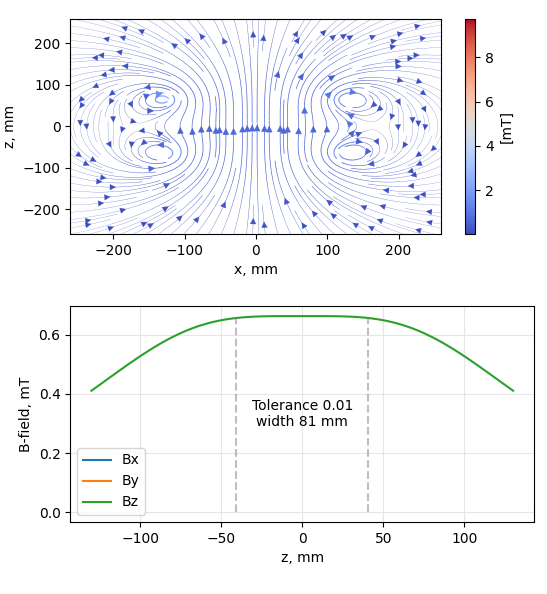
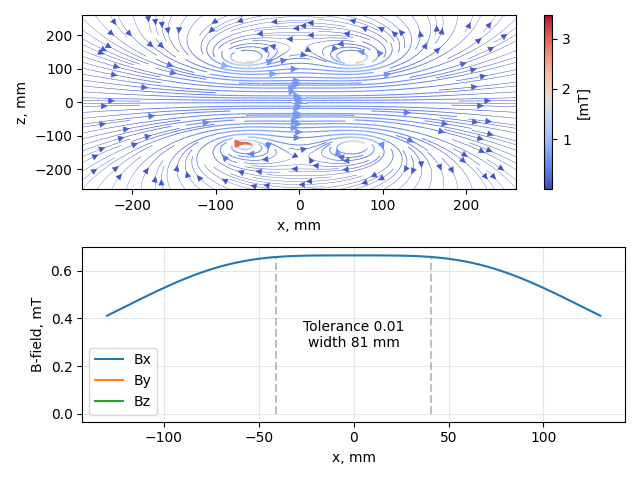
rotated in XY plane

diff --git a/helmholtz.py b/helmholtz.py
@@ -5,6 +5,7 @@ import magpylib as magpy
 import matplotlib.pyplot as plt
 import numpy as np
 from magpylib.current import Loop
+from scipy.spatial.transform import Rotation as R
 
 Mu0 = 4 * np.pi * 1e-7
 
@@ -30,9 +31,9 @@ class HelmholtzCoil(magpy.Collection):
         current : float
             The applied current in A.
         wires : int
-            No. of wires in a layer.
+            No. of wires per layer.
         layers : int
-            No. of stacked layers with ``wires``.
+            No. of stacked layers of wires.
             Even no. of layers end up winding on the same side of a coil,
             odd - opposite sides.
         fast : bool
@@ -53,10 +54,9 @@ class HelmholtzCoil(magpy.Collection):
             coil1 = self._coil_loop()
         else:
             coil1 = self._coil_spiral()
-        coil1.position = (0, 0, -self.radius / 2)
-        coil2 = coil1.copy(position=(0, 0, self.radius / 2))
+        coil1.position = (-self.radius / 2, 0, 0)
+        coil2 = coil1.copy(position=(self.radius / 2, 0, 0))
         self.add(coil1, coil2)
-        self.add_coils_connection_cables(coil1, coil2)
 
     @property
     def n_turns(self):
@@ -141,55 +141,37 @@ class HelmholtzCoil(magpy.Collection):
             f"\tHomogeneous region (tol={tol}): {b0_width:.0f} mm"
         return s
 
-    def add_coils_connection_cables(self, coil1, coil2):
-        # Has negligible effect
-        wire1, wire2, wire3 = coil1.sources[-1], coil2.sources[0], \
-                              coil2.sources[-1]
-        if isinstance(wire1, magpy.current.Loop):
-            v1_end = [wire1.diameter / 2, 0, 0] + wire1.position
-            v2_begin = [wire2.diameter / 2, 0, 0] + wire2.position
-            v2_end = [wire3.diameter / 2, 0, 0] + wire3.position
-        else:
-            v1_end = wire1.vertices[-1] + coil1.position
-            v2_begin = wire2.vertices[0] + coil2.position
-            v2_end = wire3.vertices[-1] + coil2.position
-        cable1 = magpy.current.Line(
-            current=self.current,
-            vertices=np.stack([v1_end, v2_begin])
-        )
-        cable2 = magpy.current.Line(
-            current=self.current,
-            vertices=np.stack([v2_end, v1_end])
-        )
-        self.add(cable1, cable2)
-
     def layer_radius(self, layer_id):
         x_layer = self.wire.d_outer * (layer_id - (self.n_layers - 1) / 2)
         return self.radius + x_layer
 
     def _coil_loop(self):
         coil1 = magpy.Collection(style_label='coil1')
+        rotation = R.from_euler('y', 90, degrees=True)
         for layer_id in range(self.n_layers):
             loop_diameter = 2 * self.layer_radius(layer_id)
             for wire_id in range(self.n_wires):
-                z_wire = self.wire.d_outer * (wire_id - (self.n_wires - 1) / 2)
+                x_wire = self.wire.d_outer * (wire_id - (self.n_wires - 1) / 2)
                 coil1.add(Loop(current=self.current, diameter=loop_diameter,
-                               position=(0, 0, z_wire)))
+                               orientation=rotation,
+                               position=(x_wire, 0, 0)))
         return coil1
 
     def _coil_spiral(self):
         coil1 = magpy.Collection(style_label='coil1')
         phase = np.linspace(0, self.n_wires * 2 * np.pi, num=1000)
         half_width = self.wire.d_outer * (self.n_wires - 1) / 2
-        z_ticks = np.linspace(-half_width, half_width, phase.size)
+        rotation = R.from_euler('y', 90, degrees=True)
+        x_ticks = np.linspace(-half_width, half_width, phase.size)
         for layer_id in range(self.n_layers):
             loop_radius = self.layer_radius(layer_id)
             vertices = np.c_[loop_radius * np.cos(phase),
                              loop_radius * np.sin(phase),
-                             z_ticks]
+                             x_ticks]
             coil_layer = magpy.current.Line(
                 current=self.current,
-                vertices=vertices
+                vertices=vertices,
+                orientation=rotation,
             )
             coil1.add(coil_layer)
         return coil1
@@ -201,17 +183,17 @@ class HelmholtzCoil(magpy.Collection):
         b0_mT = b0 * 1e6
         return b0_mT
 
-    def create_grid(self, n=100, dim=2):
-        grid_z = np.linspace(-self.radius, self.radius, num=n)
-        grid = np.zeros((grid_z.shape[0], 3))
-        grid[:, dim] = grid_z
+    def create_grid(self, n=100, dim=0):
+        grid_x = np.linspace(-self.radius, self.radius, num=n)
+        grid = np.zeros((grid_x.shape[0], 3))
+        grid[:, dim] = grid_x
         return grid
 
-    def get_homogeneous_region(self, B, dim=2, tol=0.01):
-        Bz = B[:, dim]
-        B0 = Bz[B.shape[0] // 2]
-        Bz_norm = Bz / B0
-        idx_valid = np.nonzero(np.abs(Bz_norm - 1) < tol)[0]
+    def get_homogeneous_region(self, B, dim=0, tol=0.01):
+        Bx = B[:, dim]
+        B0 = Bx[B.shape[0] // 2]
+        Bx_norm = Bx / B0
+        idx_valid = np.nonzero(np.abs(Bx_norm - 1) < tol)[0]
         if np.unique(np.diff(idx_valid)).size != 1:
             warnings.warn("Non-convex B field")
         left, right = idx_valid[0], idx_valid[-1]
@@ -221,7 +203,7 @@ class HelmholtzCoil(magpy.Collection):
         grid = self.create_grid()
         B = self.getB(grid)
         left, right = self.get_homogeneous_region(B, tol=tol)
-        z_left, z_right = grid[left, 2], grid[right, 2]
+        z_left, z_right = grid[left, 0], grid[right, 0]
         z_width = z_right - z_left
         return z_width
 
@@ -281,21 +263,21 @@ def plot_streamplot(helmholtz: HelmholtzCoil, ax, dim=(0, 2)):
     plt.colorbar(sp.lines, ax=ax, label='[mT]')
 
 
-def plot_Bz(helmholtz: HelmholtzCoil, ax, dim=2, tol=0.01):
+def plot_Bz(helmholtz: HelmholtzCoil, ax, dim=0, tol=0.01):
     grid = helmholtz.create_grid(dim=dim)
     B = helmholtz.getB(grid)
     ax.plot(grid, B, label=['Bx', 'By', 'Bz'])
 
-    Bz = B[:, dim]
-    B0 = Bz[B.shape[0] // 2]
+    Bx = B[:, dim]
+    B0 = Bx[B.shape[0] // 2]
     print(f"\n{B0=:.5f}, expected {helmholtz.calc_b0():.5f}")
     left, right = helmholtz.get_homogeneous_region(B, dim=dim, tol=tol)
-    z_left, z_right = grid[left, 2], grid[right, 2]
-    z_width = z_right - z_left
-    ax.vlines(x=[z_left, z_right], ymin=B.min(),
-                 ymax=[Bz[left], Bz[right]],
+    x_left, x_right = grid[left, dim], grid[right, dim]
+    x_width = x_right - x_left
+    ax.vlines(x=[x_left, x_right], ymin=B.min(),
+                 ymax=[Bx[left], Bx[right]],
                  linestyles='--', colors='grey', alpha=0.5)
-    ax.text(0.5, 0.5, f"Tolerance {tol}\nwidth {int(z_width)} mm",
+    ax.text(0.5, 0.5, f"Tolerance {tol}\nwidth {int(x_width)} mm",
                transform=ax.transAxes, horizontalalignment='center',
                verticalalignment='center')
 
@@ -310,7 +292,7 @@ def plot_Bz(helmholtz: HelmholtzCoil, ax, dim=2, tol=0.01):
 
 # print(calc_mechanical_tolerance())
 
-helmholtz = HelmholtzCoil(wire=LITZ_75)
+helmholtz = HelmholtzCoil(wire=LITZ_75, fast=False)
 print(helmholtz)
 
 magpy.show(*helmholtz, backend='plotly')
@@ -318,8 +300,8 @@ magpy.show(*helmholtz, backend='plotly')
 fig, axes = plt.subplots(nrows=2)
 axes = np.atleast_1d(axes)
 
-plot_streamplot(helmholtz, axes[0])
-plot_Bz(helmholtz, axes[-1])
+# plot_streamplot(helmholtz, axes[0])
+# plot_Bz(helmholtz, axes[-1])
 
 plt.tight_layout()
 plt.show()
